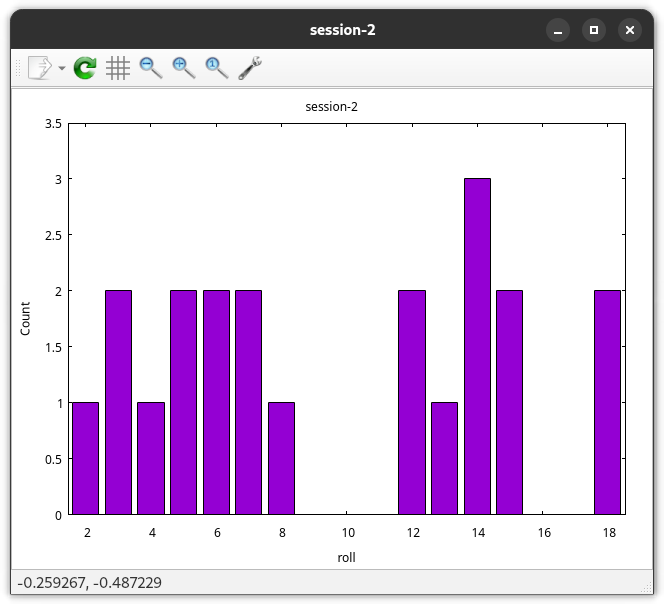
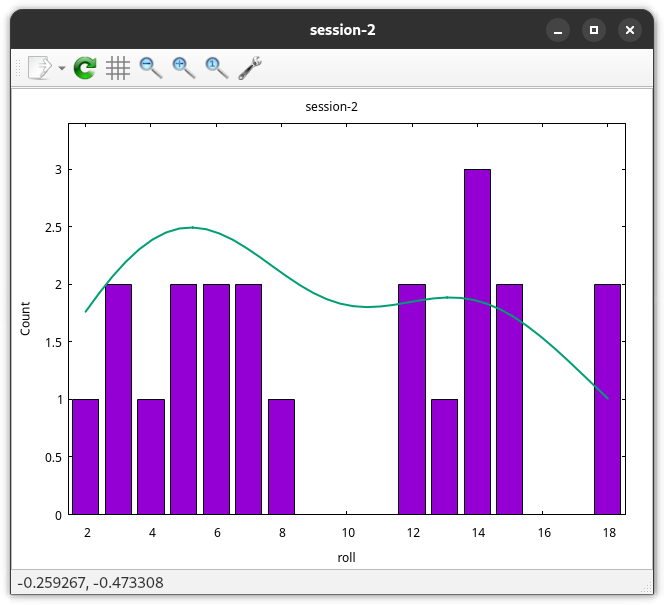
csvstats: Add KDE estimation
KDE estimation is kind of like ATM machine :)

I think this needs to be tuned better, but it works okay for the few
sample datasets I have laying around.

diff --git a/src/plot.rs b/src/plot.rs
@@ -1,4 +1,5 @@
 use gnuplot::{AutoOption, Axes2D, AxesCommon, PlotOption};
+use kernel_density_estimation::prelude::*;
 use ordered_float::OrderedFloat;
 
 use crate::counter::Counter;
@@ -48,9 +49,23 @@ impl Axes2DExt for Axes2D {
             0.0
         };
 
-        let (x, counts): (Vec<_>, Vec<_>) = counter.into_iter().unzip();
+        let mut items: Vec<_> = counter.into_iter().collect();
+        items.sort_unstable_by_key(|(x, _count)| *x);
+        let (x, counts): (Vec<_>, Vec<_>) = items.into_iter().unzip();
         let x = unsafe { std::mem::transmute::<Vec<OrderedFloat<f64>>, Vec<f64>>(x) };
         let widths = std::iter::repeat(bin_width);
+
+        let kde = KernelDensityEstimator::new(x.as_slice(), Silverman, Normal);
+        // TODO: This scaling needs tuning I think. It makes the assumption that the median is
+        // close to the most common value, which is not the case. it would maybe be better if it
+        // were scaled up to the count at the median, but the median isn't guaranteed to be a key
+        // in the Counter.
+        let median_pdf = kde.pdf(&[stats.median.unwrap_or(stats.mean)])[0];
+        let sample_points: Vec<_> = itertools_num::linspace(min, max, num_bins * 2).collect();
+        let pdf_samples = kde
+            .pdf(&sample_points)
+            .into_iter()
+            .map(|s| s * 0.7 * max_count / median_pdf);
 
         self.set_y_range(AutoOption::Fix(0.0), AutoOption::Fix(max_count + 0.4));
         self.set_x_range(
@@ -58,7 +73,13 @@ impl Axes2DExt for Axes2D {
             AutoOption::Fix(max + 0.1 * stats.stddev()),
         );
         self.set_y_label("Count", &[]);
-        self.boxes_set_width(x, counts, widths, &[PlotOption::BorderColor("black")])
+        self.boxes_set_width(
+            x.clone(),
+            counts,
+            widths,
+            &[PlotOption::BorderColor("black")],
+        )
+        .lines(sample_points, pdf_samples, &[PlotOption::LineWidth(2.0)])
     }
 
     fn histplot_continuous(
@@ -105,8 +126,8 @@ impl Axes2DExt for Axes2D {
             bin_centers.push(center);
         }
 
-        let mut max_count = 0;
-        for value in x {
+        let mut max_count: usize = 0;
+        for value in x.iter() {
             // This calculation uses an inclusive LHS and exclusive RHS. That's what we want
             // everywhere except the far RHS endpoint.
             let bin_index = (value - min) / bin_width;
@@ -121,13 +142,19 @@ impl Axes2DExt for Axes2D {
                 max_count = counts[bin_index];
             }
         }
+        let max_count = max_count as f64;
+
+        let kde = KernelDensityEstimator::new(x.as_slice(), Silverman, Normal);
+        let median_pdf = kde.pdf(&[stats.median.unwrap_or(stats.mean)])[0];
+        let sample_points: Vec<_> = itertools_num::linspace(min, max, num_bins * 2).collect();
+        let pdf_samples = kde
+            .pdf(&sample_points)
+            .into_iter()
+            .map(|s| s * 0.7 * max_count / median_pdf);
 
         let widths = std::iter::repeat(bin_width);
 
-        self.set_y_range(
-            AutoOption::Fix(0.0),
-            AutoOption::Fix(max_count as f64 + 0.4),
-        );
+        self.set_y_range(AutoOption::Fix(0.0), AutoOption::Fix(max_count + 0.4));
         self.set_x_range(
             AutoOption::Fix(min - 0.1 * stats.stddev()),
             AutoOption::Fix(max + 0.1 * stats.stddev()),
@@ -139,5 +166,6 @@ impl Axes2DExt for Axes2D {
             widths,
             &[PlotOption::BorderColor("black")],
         )
+        .lines(sample_points, pdf_samples, &[PlotOption::LineWidth(2.0)])
     }
 }

diff --git a/README.md b/README.md
@@ -80,7 +80,7 @@ Stats for column "roll":
 `csvstats` can also generate histogram plots
 
 ```sh
-$ csvstats --column roll session-2.csv --histogram --bins 20 --count-discrete
+$ csvstats --column roll session-2.csv --histogram --bins 20 --discrete
 ```
 
 ![D&D roll histogram](./data/session-2-histogram.png)
